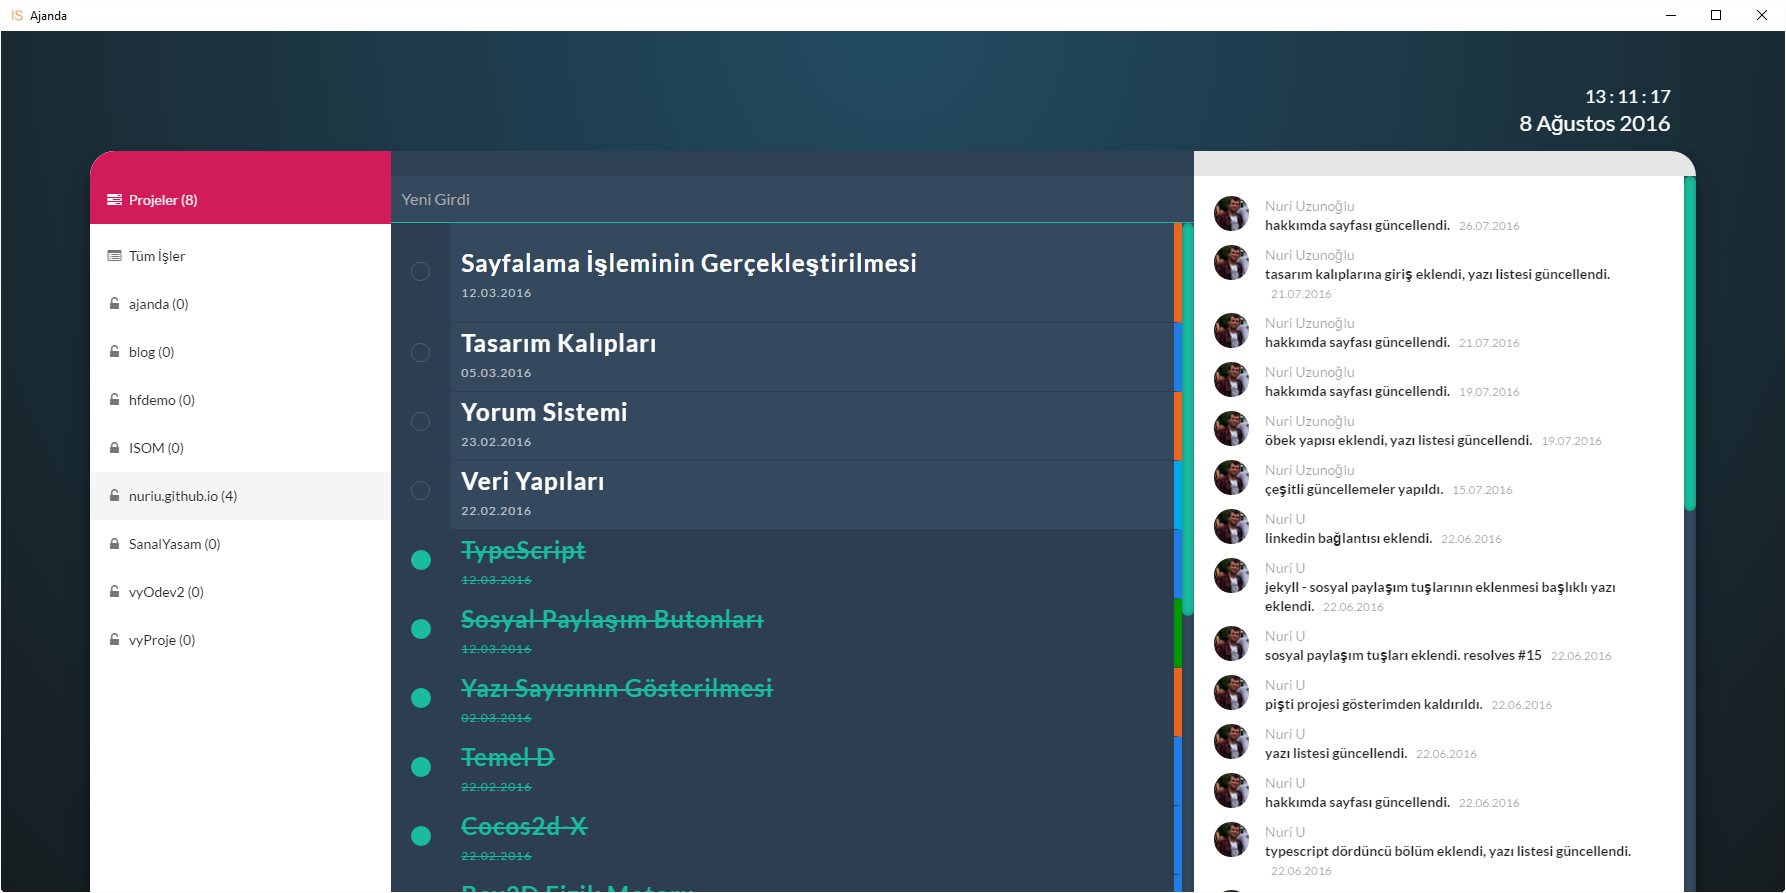
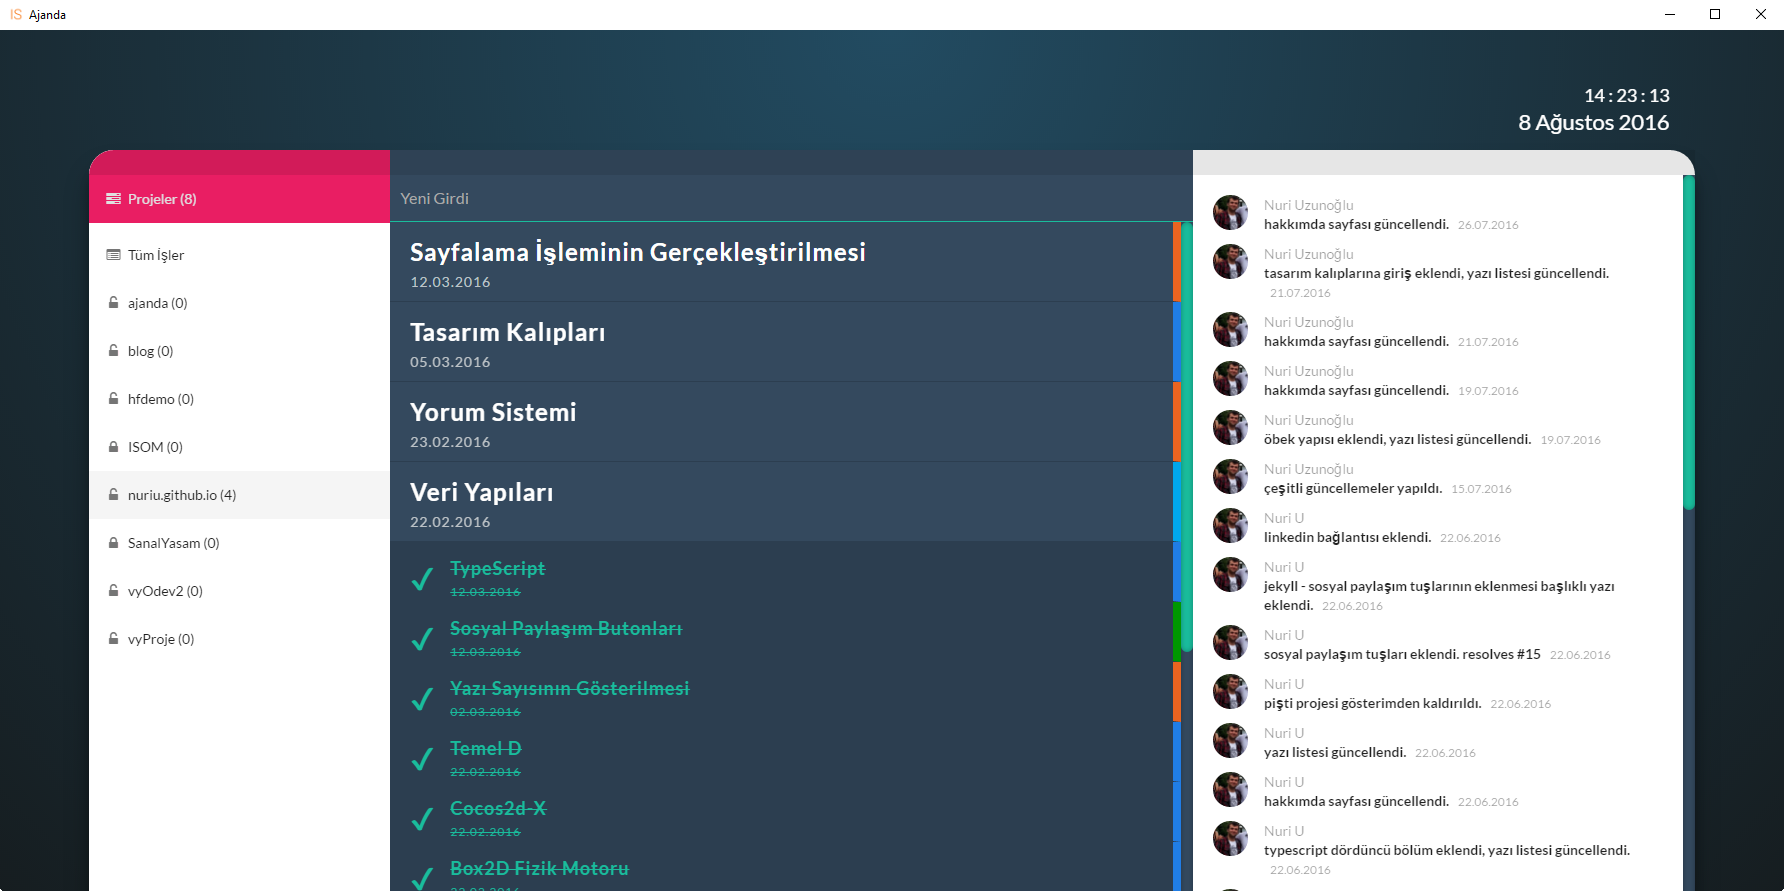
Liste üzerinde stil değişiklikleri yapıldı.

diff --git a/app/src/github.ts b/app/src/github.ts
@@ -179,19 +179,18 @@ function aktifProjeyiDegistir(projeAdi: string) {
 }
 
 function projeninIsleriniYazdir() {
-    document.getElementById("siralanabilir").innerHTML = "<li><label><h2>Yükleniyor...</h2></label></li>";
-    let ifade: string = "<li>";
+    document.getElementById("siralanabilir").innerHTML = "<li><div class='is'><h3>Yükleniyor...</h3></label></li>";
+    let ifade: string = "";
 
     gh.getIssues(KULLANICI.login, aktifProje).listIssues({
         state: "open"
     }, function (hata: string, isler: any) {
         for (let i = 0; i < isler.length; i++) {
-            ifade += "<input id='" + isler[i].id + "' type='checkbox' />";
-
+            ifade += "<li>"
             if (isler[i].labels.length > 0) {
-                ifade += "<label for='" + isler[i].id + "' style='border-right: 8px solid #" + isler[i].labels[0].color + ";'>";
+                ifade += "<div class='is' id='" + isler[i].id + "' style='border-right: 8px solid #" + isler[i].labels[0].color + ";' onclick='isBilgileriniYazdir(this.id)'>";
             } else {
-                ifade += "<label for='" + isler[i].id + "'>";
+                ifade += "<div class='is' id='" + isler[i].id + "' onclick='isBilgileriniYazdir(this.id)'>";
             }
 
             ifade += "<h2>" + isler[i].title + "<span>" + gitHubTarihi(isler[i].created_at) + "</span></h2></label></li>";
@@ -202,15 +201,14 @@ function projeninIsleriniYazdir() {
         state: "closed"
     }, function (hata: string, isler: any) {
         for (let i = 0; i < isler.length; i++) {
-            ifade += "<input id='" + isler[i].id + "' type='checkbox' checked />";
-
+            ifade += "<li>"
             if (isler[i].labels.length > 0) {
-                ifade += "<label for='" + isler[i].id + "' style='border-right: 8px solid #" + isler[i].labels[0].color + ";'>";
+                ifade += "<div class='bitmis is' id='" + isler[i].id + "' style='border-right: 8px solid #" + isler[i].labels[0].color + ";' onclick='isBilgileriniYazdir(this.id)'>";
             } else {
-                ifade += "<label for='" + isler[i].id + "'>";
+                ifade += "<div class='bitmis is' id='" + isler[i].id + "' onclick='isBilgileriniYazdir(this.id)'>";
             }
 
-            ifade += "<h2>" + isler[i].title + "<span>" + gitHubTarihi(isler[i].created_at) + "</span></h2></label></li>";
+            ifade += "<h3>" + isler[i].title + "<span>" + gitHubTarihi(isler[i].created_at) + "</span></h3></label></li>";
         }
         document.getElementById("siralanabilir").innerHTML = ifade;
     });
@@ -220,7 +218,7 @@ function projeninKatkilariniYazdir() {
     let ifade: string = "<div class='ui feed'>";
     gh.getRepo(KULLANICI.login, aktifProje).listCommits({
 
-    }, function(hata: string, katkilar: any){
+    }, function (hata: string, katkilar: any) {
         for (let i = 0; i < katkilar.length; i++) {
             ifade += "\
             <div class='event'>\
@@ -239,7 +237,7 @@ function projeninKatkilariniYazdir() {
 }
 
 function gitHubTarihi(tarih: string) {
-    let ay: string = "", gun: string = "", yil: string = ""; 
+    let ay: string = "", gun: string = "", yil: string = "";
     for (let i = 0; i < tarih.length; i++) {
         if (tarih[i] != "-") {
             if (i >= 0 && i < 4) {
@@ -255,4 +253,8 @@ function gitHubTarihi(tarih: string) {
     }
     tarih = gun + "." + ay + "." + yil;
     return tarih;
+}
+
+function isBilgileriniYazdir(id: string) {
+    console.log(id);
 }

diff --git a/app/css/liste.css b/app/css/liste.css
@@ -21,13 +21,9 @@
   padding: 0;
 }
 
-.isler input[type=checkbox] {
-  display: none;
-}
-
-.isler label {
+.isler .is {
   background: #34495E;
-  height: 69px;
+  height: 80px;
   width: 100%;
   display: block;
   border-bottom: 1px solid #2C3E50;
@@ -37,72 +33,51 @@
   cursor: pointer;
   transition: all 0.7s ease;
   position: relative;
-  padding: 5px 5px 5px 70px;
+  padding: 15px 5px 5px 20px;
   box-sizing: border-box;
   -moz-box-sizing: border-box;
   -webkit-box-sizing: border-box;
 }
 
-.isler label h2 span {
+.isler .bitmis {
+  height: 60px;
+  padding-left: 60px;
+}
+
+.isler .is h2 span {
   display: block;
-  font-size: 12px;
+  font-size: 14px;
   text-transform: capitalize;
   font-weight: normal;
   color: #bdc3c7;
 }
 
-.isler label:before {
-  content: "";
-  width: 19px;
-  height: 19px;
-  border: 1px solid #416282;
+.isler .bitmis:before {
+  content: "✔";
+  font-size: 30px;
   display: block;
   position: absolute;
-  border-radius: 100%;
   left: 20px;
-  top: 30%;
-  transition: border 0.7s ease;
   z-index: 9999;
 }
 
-.isler label:after {
-  content: "";
-  width: 60px;
-  height: 68px;
-  background: #2C3E50;
-  position: absolute;
-  left: 0;
-  top: 0;
-}
-
-.isler input[type=checkbox]:checked + label {
+.isler .bitmis {
   background: #2C3E50;
   color: #1ABC9C;
   text-decoration: line-through;
 }
 
-.isler input[type=checkbox]:checked + label h2 span {
+.isler .bitmis h3 span {
+  display: block;
+  font-size: 12px;
+  text-transform: capitalize;
+  font-weight: normal;
   color: #1ABC9C;
 }
 
-.isler input[type=checkbox]:checked + label:before {
+.isler .is :before {
   background: #1abc9d no-repeat center center;
   border: 10px solid #1abc9d;
-}
-
-.isler li:first-child label {
-  padding-top: 25px;
-  height: 100px;
-  text-transform: capitalize;
-  font-size: 15px;
-}
-
-.isler li:first-child label:before {
-  top: 40%;
-}
-
-.isler li:first-child label:after {
-  height: 100px;
 }
 
 .listeGirdisi input {

diff --git a/app/src/isler.ts b/app/src/isler.ts
@@ -19,24 +19,25 @@ function notlariListele() {
         let eleman = tariheGoreTumNotlar[indis];
         let ifade: String = "<li>";
 
-        // TAMAMLANMA DURUMU
-        if (eleman[4] == 1)
-            ifade += "<input id='" + eleman[0] + "' type='checkbox' checked />";
-        else
-            ifade += "<input id='" + eleman[0] + "' type='checkbox' />";        
-
-        // ETİKET DURUMU
-        if (eleman[3] != 0) {
-            let etiketinRengi: String = db.exec("SELECT RENK FROM ETIKETLER WHERE ID="+ eleman[3])[0].values[0];            
-            ifade += "<label for='" + eleman[0] + "' style='border-right: 8px solid " + etiketinRengi + ";'>";
+        if (eleman[4] == 1) {
+            if (eleman[3] != 0) {
+                let etiketinRengi: String = db.exec("SELECT RENK FROM ETIKETLER WHERE ID=" + eleman[3])[0].values[0];
+                ifade += "<div class='bitmis is' id='" + eleman[0] + "' style='border-right: 8px solid " + etiketinRengi + ";'>";
+            } else {
+                ifade += "<div class='bitmis is' id='" + eleman[0] + "'>";
+            }
+            ifade += "<h3>" + eleman[1] + "<span>" + eleman[2] + "</span></h3>";
         } else {
-            ifade += "<label for='" + eleman[0] + "'>";
+            if (eleman[3] != 0) {
+                let etiketinRengi: String = db.exec("SELECT RENK FROM ETIKETLER WHERE ID=" + eleman[3])[0].values[0];
+                ifade += "<div class='is' id='" + eleman[0] + "' style='border-right: 8px solid " + etiketinRengi + ";'>";
+            } else {
+                ifade += "<div class='is' id='" + eleman[0] + "'>";
+            }
+            ifade += "<h2>" + eleman[1] + "<span>" + eleman[2] + "</span></h2>";
         }
-
-        ifade +="\
-        <h2>" + eleman[1] + "<span>" + eleman[2] + "</span></h2>\
-        </label></li>";
-
+        
+        ifade += "</div></li>";
         document.getElementById("siralanabilir").innerHTML += ifade;
     }
 }
